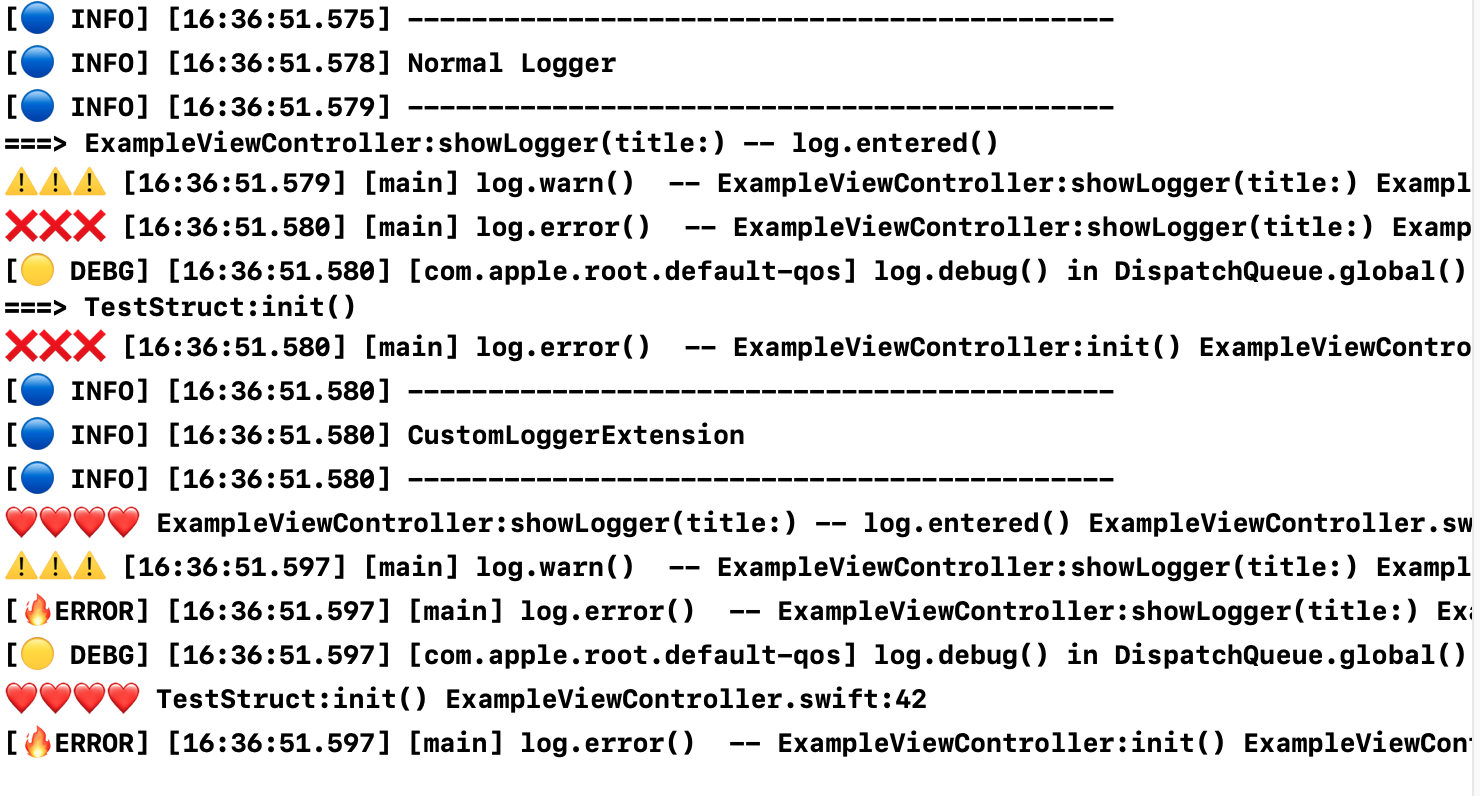
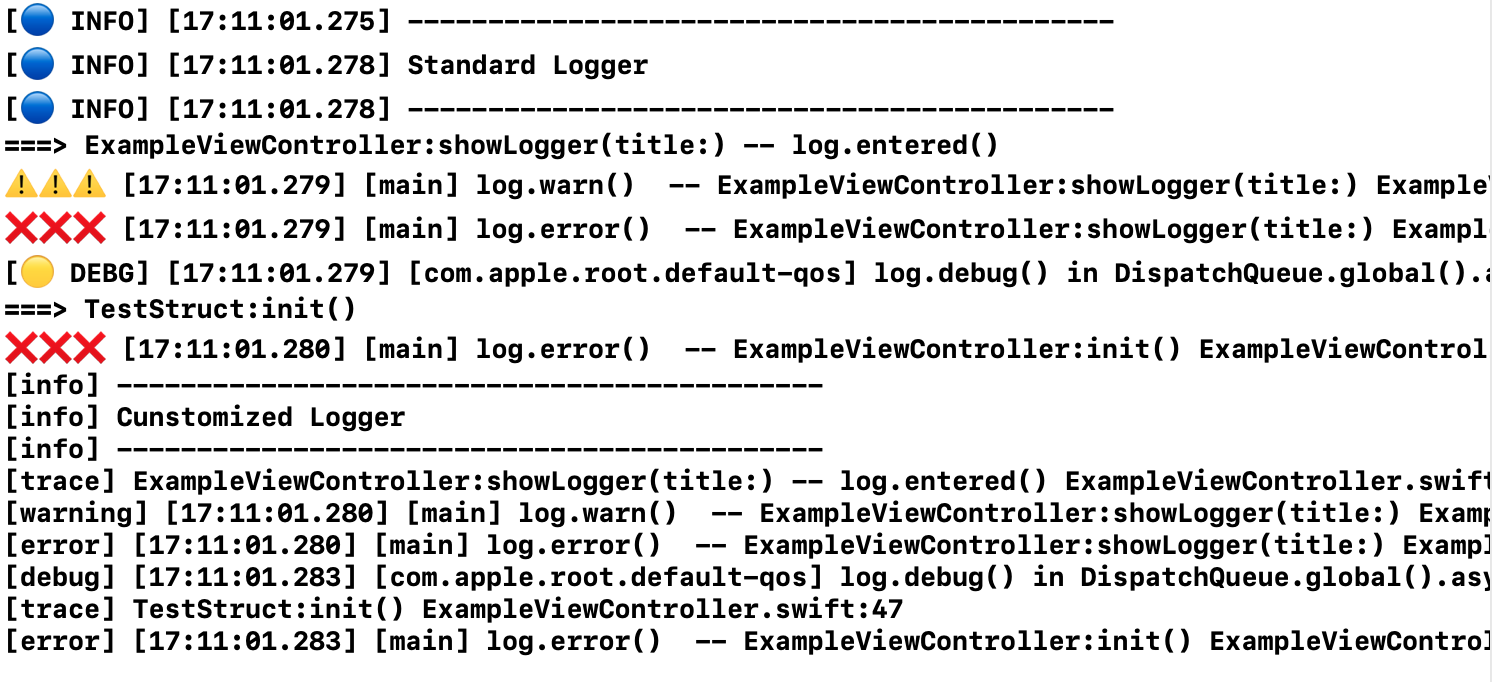
Update example

Changed region(s): [[0.0, 0.0, 1.0, 0.9545]]

diff --git a/LoggerExample/LoggerExample/CustomLoggerExtension.swift b/LoggerExample/LoggerExample/CustomLoggerExtension.swift
@@ -9,25 +9,32 @@
 import Logger
 
 class CustomLoggerExtension: LoggerDependency {
+    
     public func log(_ formedMessage: String, original: String, level: Logger.Level) {
         print(formedMessage)
     }
+
     public func preFix(_ level: Logger.Level) -> String {
-        switch level {
-        case .trace:    return "❤❤❤❤"
-        case .error:    return "[🔥ERROR]"
-        case .fatal:    return "[🔥FATAL]"
-        default: return DefaultLoggerDependencies().preFix(level)
-        }
+
+        return "[\(level.rawValue)]"
     }
+
     public func isEnabledClassAndMethodName(_ level: Logger.Level) -> Bool {
         return false
     }
+
     // true: Add file name and line number at the end of log
     public func isEnabledFileAndLineNumber(_ level: Logger.Level) -> Bool {
         switch level {
         case .info:     return false
         default:        return true
         }
+    }
+
+    func getTimeStampType(_ level: Logger.Level) -> Logger.TimeStampType {
+        guard level == .info else {
+            return DefaultLoggerDependencies().getTimeStampType(level)
+        }
+        return .none
     }
 }

diff --git a/LoggerExample/LoggerExample/ExampleViewController.swift b/LoggerExample/LoggerExample/ExampleViewController.swift
@@ -16,10 +16,11 @@ class ExampleViewController: UIViewController {
     override func viewDidAppear(_ animated: Bool) {
         super.viewDidAppear(animated)
 
-        showLogger(title: "Normal Logger")
+        showLogger(title: "Standard Logger")
         
         log.dep = CustomLoggerExtension()
-        showLogger(title: "CustomLoggerExtension")
+
+        showLogger(title: "Cunstomized Logger")
 
     }
     
@@ -27,12 +28,16 @@ class ExampleViewController: UIViewController {
         log.info("--------------------------------------------")
         log.info(title)
         log.info("--------------------------------------------")
+
         log.entered(self, message: "log.entered()")
         log.warning("log.warn()")
+
         DispatchQueue.global().async {
             log.debug("log.debug() in DispatchQueue.global().async", instance: self)
         }
+
         log.error("log.error()")
+
         let _ = TestStruct()
     }
 }
